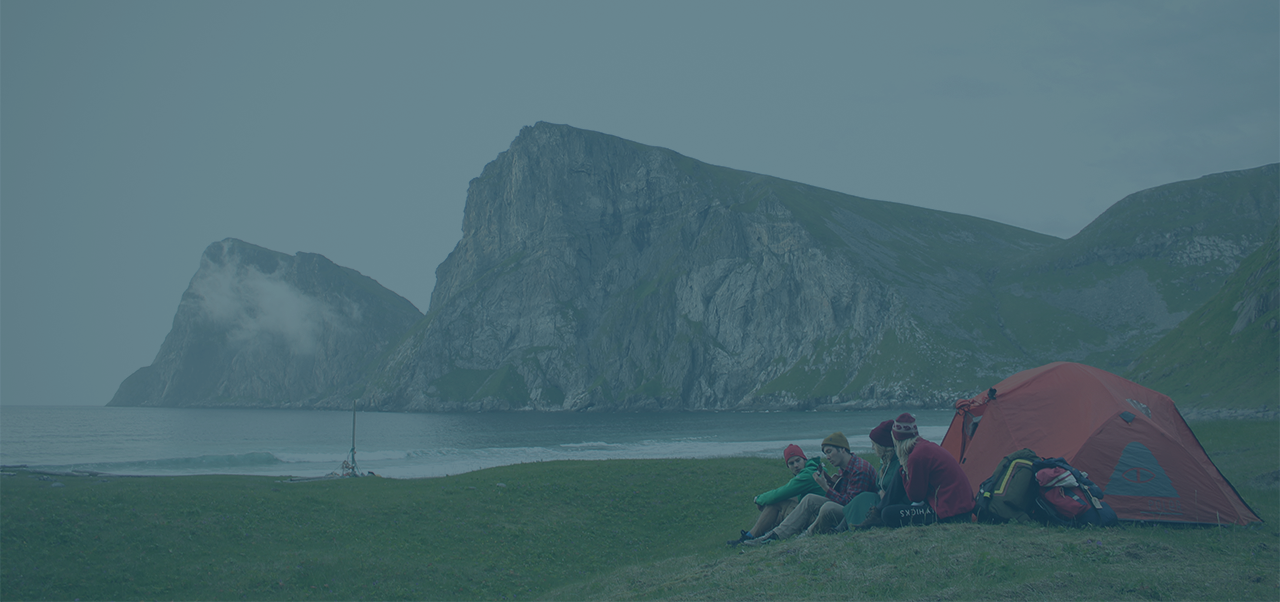
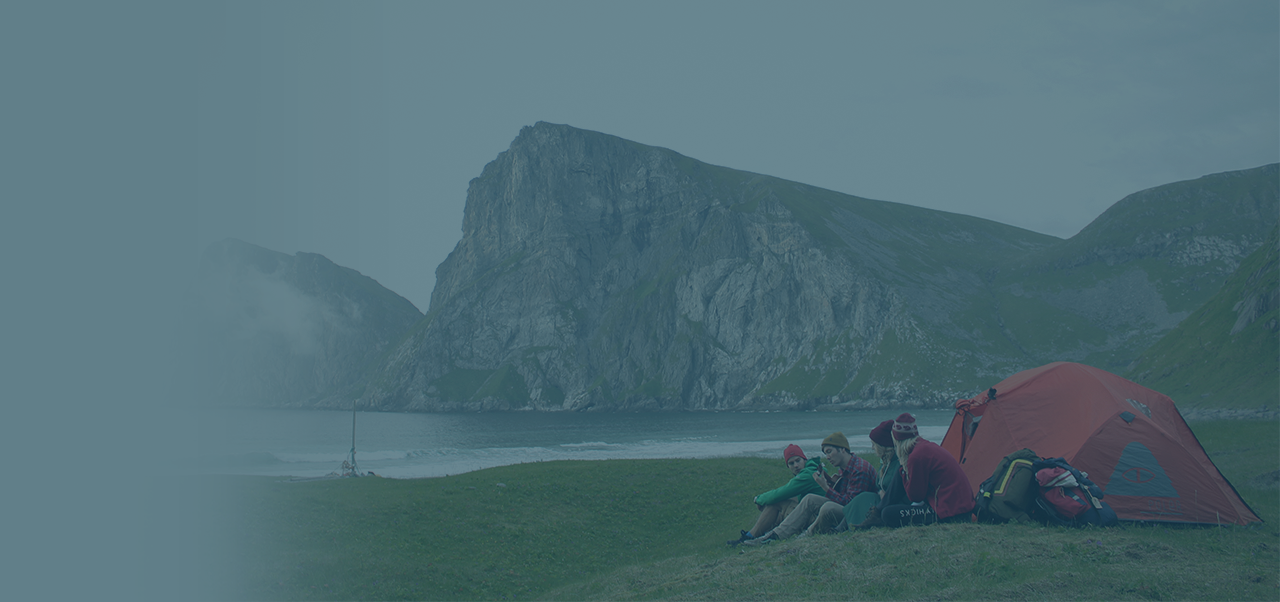
Added video to header in larger screens

Changed region(s): [[0.0, 0.7475, 0.25, 1.0], [0.0938, 0.5681, 0.1875, 0.6877]]

diff --git a/_sass/_layout.scss b/_sass/_layout.scss
@@ -7,7 +7,7 @@
     // Positioning context for the mobile navigation icon
     position: relative;
     background: url(/css/img/arctos-header-lightblue-shortest.png) center center;
-    /*background: transparent!important;*/
+    
     overflow: hidden;
     background-size: cover;
     color: #f5f5f5;
@@ -15,10 +15,12 @@
     text-align: center;
 }
 
-@media (min-width: 1200px) {
+@media (min-width: 1100px) {
     .site-header {
         min-height: 700px;
+        background: transparent!important;
     }
+
 }
 
 /**
@@ -768,3 +770,8 @@ video {
     z-index: -1;
 }
 
+@media (max-width: 1099px) {
+    #header-video {
+        display: none;
+    }
+}

diff --git a/_includes/header.html b/_includes/header.html
@@ -1,11 +1,11 @@
 <header class="site-header">
 
-  <!--<video preload="auto" loop="loop" id="header-video" class="video-playing" autoplay>
+  <video preload="auto" loop="loop" id="header-video" class="video-playing" autoplay>
     
     <source src="/css/vid/kvalvika.mp4" type="video/mp4">
     <source src="/css/vid/kvalvika.webm" type="video/webm">
 
-  </video>-->
+  </video>
 
   <nav class="top-header">
 
